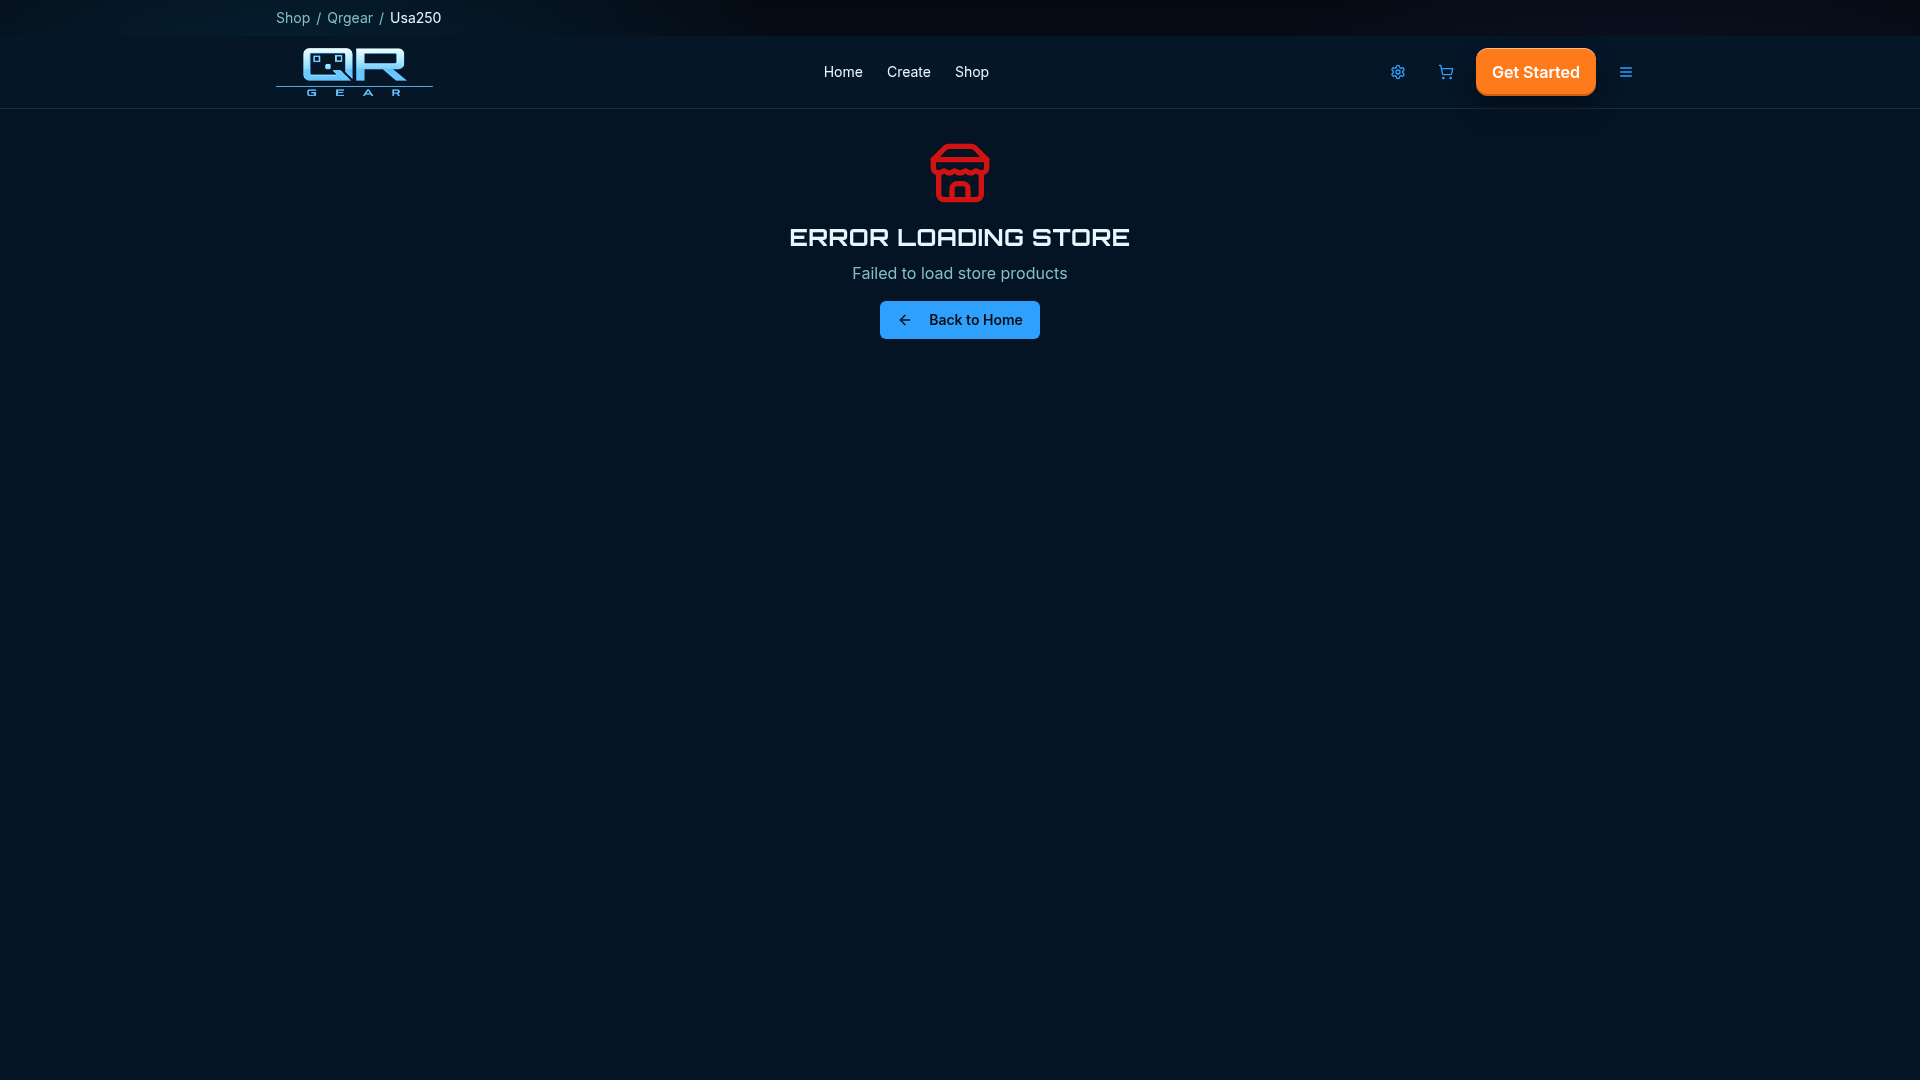
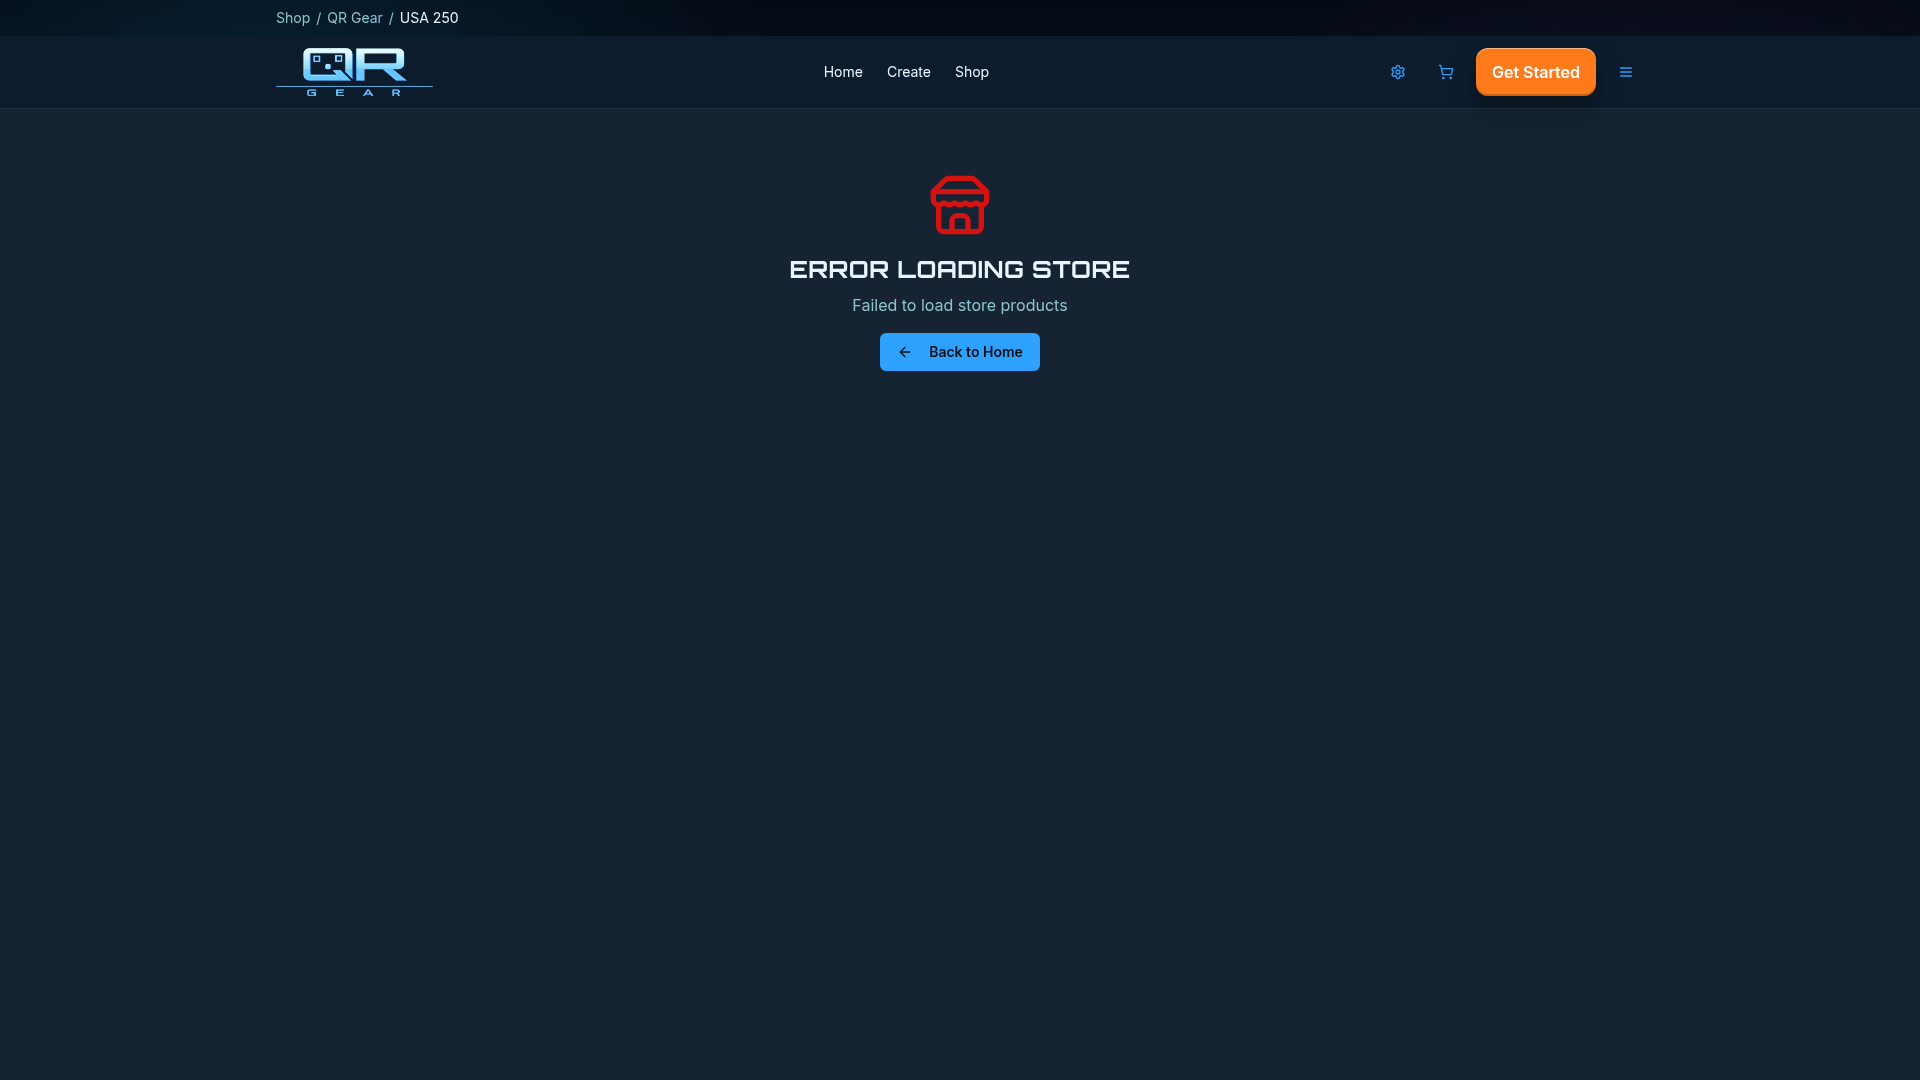
Correctly name the USA 250 channel across the application
Fix inconsistencies by updating the channel slug from 'usa250' to 'usa-250' across frontend files and reverting backend complexity.

Replit-Commit-Author: Agent
Replit-Commit-Session-Id: e9c280b4-8178-4da4-b8ea-9a0d4027a32a
Replit-Commit-Checkpoint-Type: full_checkpoint
Replit-Commit-Event-Id: ee4e5af2-8771-4129-b5c8-662782aa662b
Replit-Commit-Screenshot-Url: https://storage.googleapis.com/screenshot-production-us-central1/5fbed902-5faa-41c1-ba53-04d4cf8e6fef/e9c280b4-8178-4da4-b8ea-9a0d4027a32a/romN5G1
Replit-Helium-Checkpoint-Created: true

Changed region(s): [[0.4062, 0.1222, 0.5938, 0.3667], [0.1875, 0.0, 0.25, 0.0306]]

diff --git a/client/src/data/shopHierarchy.ts b/client/src/data/shopHierarchy.ts
@@ -6,7 +6,7 @@
  * Hierarchy:
  *   internal
  *   └── qrgear
- *       └── usa250
+ *       └── usa-250
  *           ├── monuments
  *           ├── armed-forces
  *           └── founding-fathers
@@ -14,7 +14,7 @@
  * Rules:
  *   storeType  = "internal"
  *   storeName  = URL slug (e.g. "qrgear")
- *   channel    = URL channel slug (e.g. "usa250")
+ *   channel    = URL channel slug (e.g. "usa-250")
  *   collection = URL collection slug (e.g. "armed-forces")
  *   segment    = legacy Firestore field value (e.g. "Armed Forces")
  *                — only used in the resolver bridge below, not in page logic.
@@ -30,7 +30,7 @@ export interface CollectionConfig {
 }
 
 export interface ChannelConfig {
-  slug: string;        // URL channel slug, e.g. "usa250"
+  slug: string;        // URL channel slug, e.g. "usa-250"
   label: string;       // e.g. "USA 250"
   intro: string;       // One-line tagline shown on the hub page
   description: string; // Longer description
@@ -57,7 +57,7 @@ export const QR_GEAR: StoreConfig = {
     "QR Gear is America's home for QR-powered apparel — wearable products embedded with scannable QR codes that connect to digital experiences.",
   channels: [
     {
-      slug: "usa250",
+      slug: "usa-250",
       label: "USA 250",
       intro: "A tribute to the people, places, and principles that shaped America.",
       description:

diff --git a/functions/lib/functions/src/routes/store-files.js b/functions/lib/functions/src/routes/store-files.js
@@ -572,7 +572,7 @@ function register(app) {
                 res.status(404).json({ error: "Store not found" });
                 return;
             }
-            // ---- Channel-scoped query: /api/store/internal/qr-gear?channel=usa250[&collection=monuments] ----
+            // ---- Channel-scoped query: /api/store/internal/qr-gear?channel=usa-250[&collection=monuments] ----
             if (channel) {
                 const channelDoc = await core_1.db.collection('storeChannels').doc(channel).get();
                 if (!channelDoc.exists || (channelDoc.data() || {}).storeId !== matchedStore.id) {

diff --git a/functions/src/routes/store-files.ts b/functions/src/routes/store-files.ts
@@ -614,7 +614,7 @@ app.get('/store/:storeType/:storeName', async (req: Request, res: Response): Pro
     }
     if (!matchedStore) { res.status(404).json({ error: "Store not found" }); return; }
 
-    // ---- Channel-scoped query: /api/store/internal/qr-gear?channel=usa250[&collection=monuments] ----
+    // ---- Channel-scoped query: /api/store/internal/qr-gear?channel=usa-250[&collection=monuments] ----
     if (channel) {
       const channelDoc = await db.collection('storeChannels').doc(channel).get();
       if (!channelDoc.exists || (channelDoc.data() || {}).storeId !== matchedStore.id) {

diff --git a/functions/lib/functions/src/index.js b/functions/lib/functions/src/index.js
@@ -4,7 +4,7 @@ var __importDefault = (this && this.__importDefault) || function (mod) {
 };
 Object.defineProperty(exports, "__esModule", { value: true });
 exports.BUILD_TAG = exports.api = void 0;
-const _BUILD_ID = '20260511-040656-7821';
+const _BUILD_ID = '20260511-042437-25668';
 process.env.QRGEAR_BUILD_ID = _BUILD_ID;
 console.log('[CF Boot] Build:', _BUILD_ID);
 const https_1 = require("firebase-functions/v2/https");

diff --git a/client/src/pages/home.tsx b/client/src/pages/home.tsx
@@ -131,7 +131,7 @@ function FeaturedStores() {
       title: "USA 250",
       tagline: "Wear the story of American history.",
       collections: "Monuments · Armed Forces · Founding Fathers",
-      href: "/shop/internal/qrgear/usa250",
+      href: "/shop/internal/qrgear/usa-250",
       badge: "Now Available",
       icon: <Flag className="w-5 h-5" />,
       heroImage: usa250HeroImg,

diff --git a/client/src/features/storefront/CollectionView.tsx b/client/src/features/storefront/CollectionView.tsx
@@ -2,7 +2,7 @@
  * CollectionView — renders a specific collection page under a channel.
  *
  * Route: /shop/:storeType/:storeName/:channel/:collection
- *        e.g. /shop/internal/qrgear/usa250/armed-forces
+ *        e.g. /shop/internal/qrgear/usa-250/armed-forces
  *
  * Responsibilities:
  *  - Breadcrumb context: QR Gear › Channel › Collection

diff --git a/client/src/pages/shop-segment.tsx b/client/src/pages/shop-segment.tsx
@@ -16,7 +16,7 @@
  * It does NOT hard-code any USA 250 or collection-specific logic.
  *
  * Hierarchy (locked):
- *   internal → qrgear → usa250 → monuments / armed-forces / founding-fathers
+ *   internal → qrgear → usa-250 → monuments / armed-forces / founding-fathers
  */
 
 import { useQuery } from "@tanstack/react-query";

diff --git a/client/src/features/storefront/ChannelHubView.tsx b/client/src/features/storefront/ChannelHubView.tsx
@@ -2,7 +2,7 @@
  * ChannelHubView — renders a channel landing page (e.g. USA 250 hub).
  *
  * Route: /shop/:storeType/:storeName/:channel
- *        e.g. /shop/internal/qrgear/usa250
+ *        e.g. /shop/internal/qrgear/usa-250
  *
  * Responsibilities:
  *  - Channel header with hero image

diff --git a/client/src/components/BreadcrumbTrail.tsx b/client/src/components/BreadcrumbTrail.tsx
@@ -4,7 +4,7 @@ const routeLabels: Record<string, string> = {
   "store": "Shop",
   "gallery": "Shop",
   "qrgear": "QR Gear",
-  "usa250": "USA 250",
+  "usa-250": "USA 250",
   "monuments": "Monuments",
   "armed-forces": "Armed Forces",
   "founding-fathers": "Founding Fathers",

diff --git a/functions/src/index.ts b/functions/src/index.ts
@@ -1,4 +1,4 @@
-const _BUILD_ID = '20260511-040656-7821';
+const _BUILD_ID = '20260511-042437-25668';
 process.env.QRGEAR_BUILD_ID = _BUILD_ID;
 console.log('[CF Boot] Build:', _BUILD_ID);
 import { onRequest } from 'firebase-functions/v2/https';
